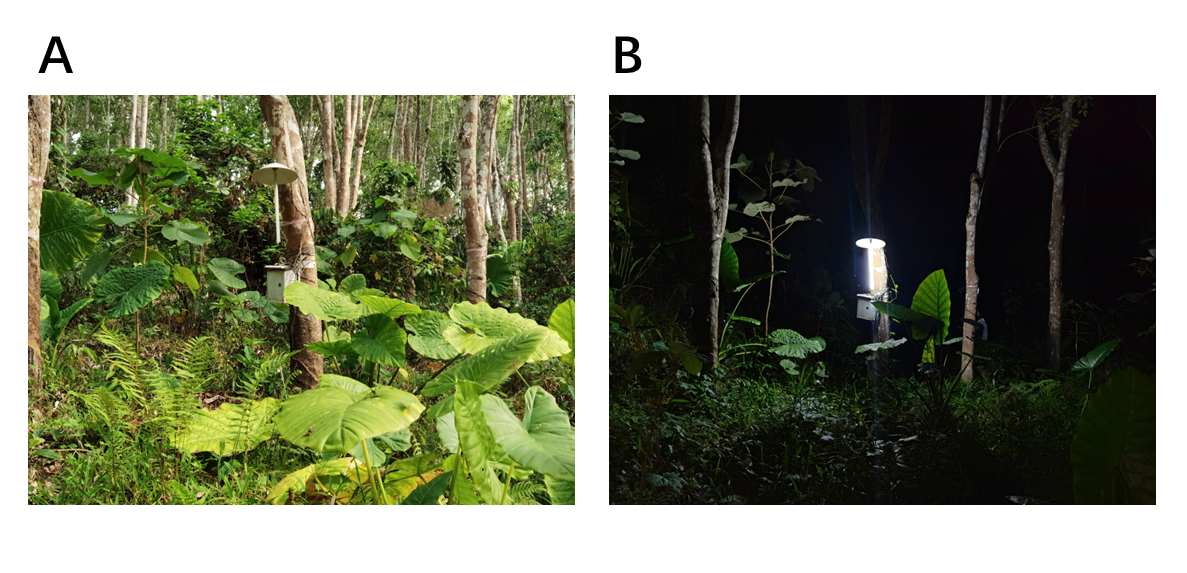
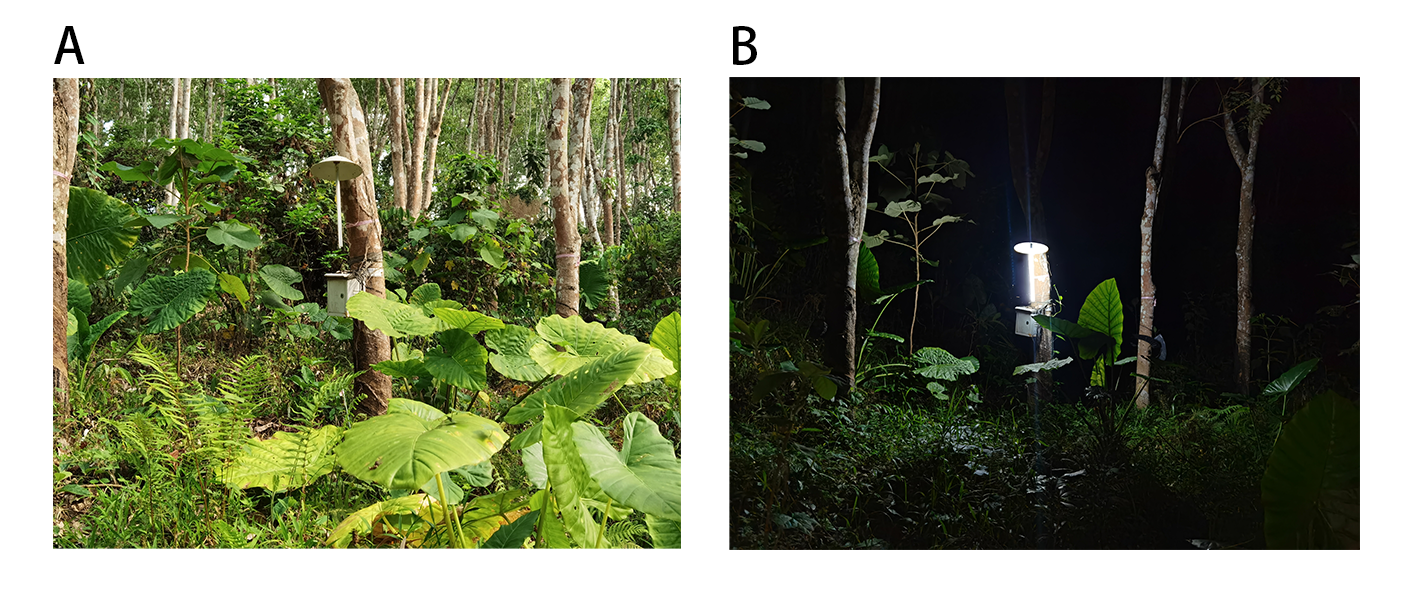
light intensity and fig1

diff --git a/ms/alan.tex b/ms/alan.tex
@@ -180,7 +180,7 @@
 \date{}
 
 \begin{document}
-\ifdefined\Shaded\renewenvironment{Shaded}{\begin{tcolorbox}[enhanced, interior hidden, borderline west={3pt}{0pt}{shadecolor}, frame hidden, sharp corners, breakable, boxrule=0pt]}{\end{tcolorbox}}\fi
+\ifdefined\Shaded\renewenvironment{Shaded}{\begin{tcolorbox}[frame hidden, interior hidden, breakable, boxrule=0pt, borderline west={3pt}{0pt}{shadecolor}, enhanced, sharp corners]}{\end{tcolorbox}}\fi
 
 \textbf{Artificial light at night (ALAN) influences understory plant
 traits through ecological processes: a two-year experiment in a rubber
@@ -275,12 +275,12 @@ plants (\protect\hyperlink{ref-Bennie2016}{Bennie et al. 2016},
 \protect\hyperlink{ref-Speisser2021a}{Speißer et al. 2021},
 \protect\hyperlink{ref-Liu2022}{Liu et al. 2022}). Speißer et al.
 (\protect\hyperlink{ref-Speisser2021a}{2021}) conducted plant growth
-experiments with and without weak ALAN (28 lx: within the range of light
-intensities at ground level under street lights) and showed that ALAN
-increases the biomass of herbaceous plants. Their results suggest that
-even weak ALAN acts as a light resource for plant growth. However, few
-studies have examined the effects of ALAN on plant functional traits in
-conditions close to their natural environment.
+experiments with and without weak ALAN (28 lux: within the range of
+light intensities at ground level under street lights) and showed that
+ALAN increases the biomass of herbaceous plants. Their results suggest
+that even weak ALAN acts as a light resource for plant growth. However,
+few studies have examined the effects of ALAN on plant functional traits
+in conditions close to their natural environment.
 
 ALAN might, directly and indirectly, affect plant leaf functional
 traits. First, ALAN might directly affect plant leaf functional traits
@@ -368,10 +368,10 @@ automatically from 8 pm to 5 am daily. A rechargeable lithium battery
 the LED operation at night. The battery and LEDs were connected by
 electric wire and hung from a tree branch with a lampshade approximately
 2 m from the ground. The light intensity of LED lights at the light
-sources was xxx ± xxx (mean ± SE) lux. The light intensity decreased
-with distance: xxx ± xxx lux at a radius of 1 m, xxx ± xxx lux at a
-radius of 2 m, and xxx ± xxx lux at a radius of 4 m. The light intensity
-was almost undetectable at 0 lux beyond xxx m The experiment was set up
+sources was 372.8 ± 66.6 (mean ± SE) lux. The light intensity decreased
+with distance: 190.2 ± 26.5 lux at a radius of 1 m, 62.0 ± 4.9 lux at a
+radius of 2 m, and 9.9 ± 0.7 lux at a radius of 4 m. The light intensity
+was almost undetectable at 0 lux beyond 10 m. The experiment was set up
 in November 2019, and leaf disc samples were collected two years later,
 in November 2021.
 
@@ -912,7 +912,7 @@ Soil Research 51:50--58.
 
 \begin{figure}
 
-{\centering \includegraphics{/Users/mattocci/Dropbox/Reserach/MS/light_project/figs/merge.png}
+{\centering \includegraphics{/home/cong/coding/light_project/figs/merge.png}
 
 }
 
@@ -927,7 +927,7 @@ species, \emph{Colocasia gigantea}, is visible in both pictures.}
 
 \begin{figure}
 
-{\centering \includegraphics{/Users/mattocci/Dropbox/Reserach/MS/light_project/figs/lma_map.png}
+{\centering \includegraphics{/home/cong/coding/light_project/figs/lma_map.png}
 
 }
 
@@ -947,7 +947,7 @@ their interaction on leaf mass per area (LMA) values. Posterior means
 and 95\% credible intervals (CI) are shown. Intervals that do not
 include zero are highlighted in bold.
 
-\includegraphics[width=3.125in,height=\textheight]{/Users/mattocci/Dropbox/Reserach/MS/light_project/figs/Table1.png}
+\includegraphics[width=3.125in,height=\textheight]{/home/cong/coding/light_project/figs/Table1.png}
 
 
 
